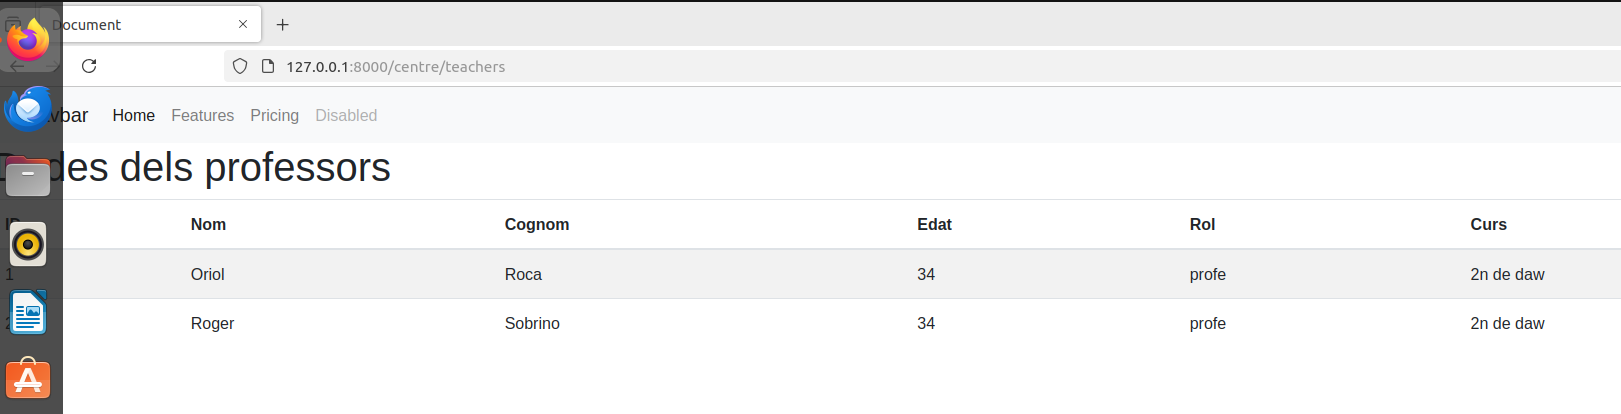
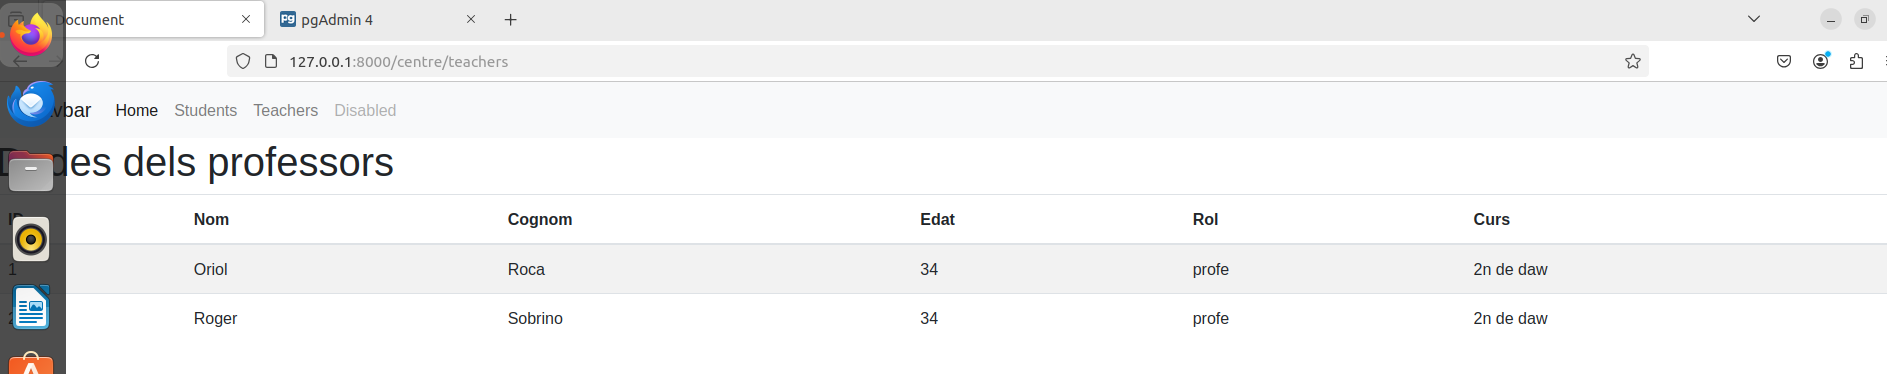
Documentacio

diff --git a/activitat13/TIC_BCN_JMB/centre/templates/index.html b/activitat13/TIC_BCN_JMB/centre/templates/index.html
@@ -16,8 +16,8 @@
     <div class="collapse navbar-collapse" id="navbarNavAltMarkup">
       <div class="navbar-nav">
         <a class="nav-link active" aria-current="page" href="#">Home</a>
-        <a class="nav-link" href="#">Features</a>
-        <a class="nav-link" href="#">Pricing</a>
+        <a class="nav-link" href="{% url 'students'%}">Students</a>
+        <a class="nav-link" href="{% url 'teachers'%}">Teachers</a>
         <a class="nav-link disabled" href="#" tabindex="-1" aria-disabled="true">Disabled</a>
       </div>
     </div>

diff --git a/activitat13/TIC_BCN_JMB/centre/views.py b/activitat13/TIC_BCN_JMB/centre/views.py
@@ -34,11 +34,13 @@ def getTeachers(request):
         {"id_teacher":1,"nom":"Oriol","cognom":"Roca","edat":34,"rol":"profe","curs":"2n de daw"},
         {"id_teacher": 2, "nom": "Roger", "cognom": "Sobrino", "edat": 34, "rol": "profe", "curs": "2n de daw"}
     ]
-    return render(request, 'teachers.html', {'teachers': teachers})
+    teachers2 = Teacher.objects.all()
+    return render(request, 'teachers.html', {'teachers': teachers2})
 
 def getStudents(request):
     students = [
         {"id_student":1,"nom":"Joan","rol":"estudiant"},
         {"id_student": 2, "nom": "Hugo", "rol": "estudiant"},
     ]
-    return render(request, 'students.html', {'students': students})
+    students2 = Student.objects.all()
+    return render(request, 'students.html', {'students': students2})

diff --git a/activitat13/readme.md b/activitat13/readme.md
@@ -1,15 +1,17 @@
 <h1>Documentacio de la activitat</h1>
 
 <h2>Activitat 1</h2>
-<p>En aquesta activitat he creat els dos endpoints que demanava la practica i mostrar el resultat per pantalla captures a continuacio</p>
+<p>En aquesta activitat he creat els dos endpoints (views+url) que demanava la practica i mostrar el resultat per pantalla captures a continuacio, les dades que surten estan hardcodejades com una llista de diccionaris.</p>
 <img src="students.png">
 <img src="teachers.png">
 
 <h2>Activitat 2</h2>
-<p>He afegit el navbar a dalt de tot amb una plantilla index.html que es renderitza  per als students i els teachers</p>
+<p>He afegit el navbar a dalt de tot amb una plantilla index.html que es renderitza  per als students i els teachers i te els enllaços les URLS configurats per a entrar als students i als teachers desde el navbar</p>
 <img src="students.png">
 <img src="teachers.png">
 
 <h2>Activitat 3</h2>
-<p>He creat un model de Teacher i students i fet la migracio de les taules a la base de dades postgres i a partir de aqui he creat els endpoints per a fer el insert a la base de dades, captura de la migracio a postgres a continuacio</p>
+<p>He creat un model de Teacher i Student i fet la migracio de les taules a la base de dades postgres i a partir de aqui he creat les views i els endpoints per a fer el insert a la base de dades del postgres, captura de la migracio a postgres a continuacio totes les taules me les ha creat automaticament al fer la migracio i es pot veure en la primera captura que son las taules que tenia creades abans de fer la migracio i tota la resta s'ha creat despres de ferla</p>
+<img src="abans.png">
 <img src="migration.png">
+<p>Un cop fet aixo he canviat les dades hardcodejades i en comptes d'aixo les agafo de la base de dades dels postgres amb el metode .objects.all()</p>
